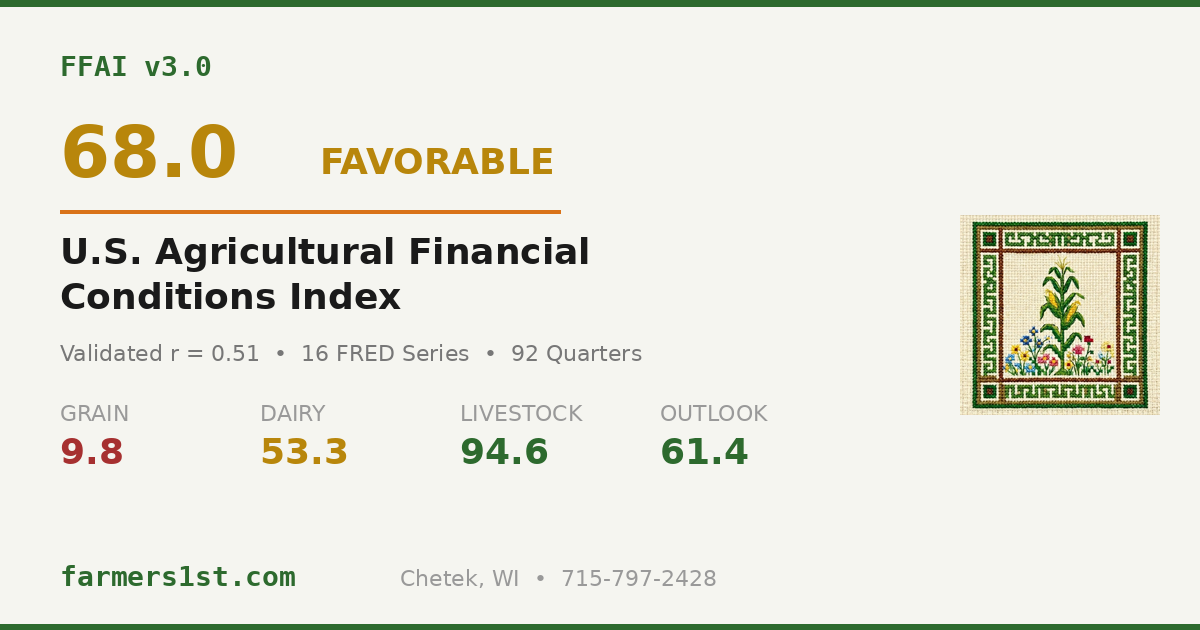
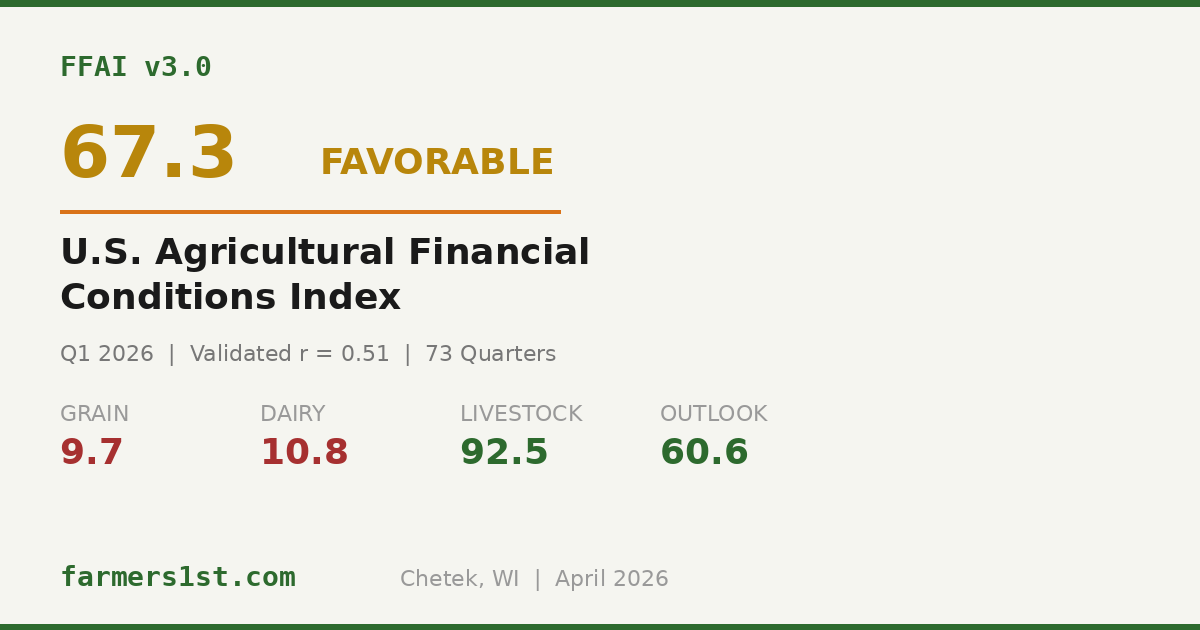
Add files via upload

diff --git a/ffai-data.js b/ffai-data.js
@@ -19,34 +19,34 @@
 var FFAI = {
 
   // -- Current Quarter (paste from engine output) ---------------
-  quarter:  "Q4'25",
-  date:     "Q4 2025",
-  updated:  "February 23, 2026",
-  nextUpdate: "APR '26",
+  quarter:  "Q1'26",
+  date:     "Q1 2026",
+  updated:  "April 24, 2026",
+  nextUpdate: "JUL '26",
 
-  composite:  68.0,
-  prevComp:   69.3,
+  composite:  67.3,
+  prevComp:   67.9,
   regime:     "FAVORABLE",
 
-  grain:       9.8,
-  dairy:      53.3,
-  livestock:  94.6,
-  outlook:    61.4,
+  grain:       9.7,
+  dairy:      10.8,
+  livestock:  92.5,
+  outlook:    60.6,
 
-  prevGrain:      2.2,
-  prevDairy:     72.5,
-  prevLivestock: 100.0,
-  prevOutlook:   64.0,
+  prevGrain:      9.8,
+  prevDairy:     51.1,
+  prevLivestock: 94.6,
+  prevOutlook:   61.4,
 
   // -- Quarterly History (from ffai_v3_engine.py CSV) -----------
   // Format: [label, composite, grain, dairy, livestock]
   history: [
-    ["Q1'08",55.2,100.0,4.8,4.8],
+    ["Q1'08",55.1,100.0,4.8,4.8],
     ["Q2'08",49.5,95.5,4.5,9.1],
     ["Q3'08",54.0,91.3,13.0,100.0],
     ["Q4'08",19.1,87.5,100.0,12.5],
     ["Q1'09",21.8,96.0,12.0,12.0],
-    ["Q2'09",31.2,96.2,3.8,15.4],
+    ["Q2'09",31.1,96.2,3.8,15.4],
     ["Q3'09",24.8,85.2,18.5,11.1],
     ["Q4'09",18.3,82.1,25.0,10.7],
     ["Q1'10",9.9,75.9,27.6,100.0],
@@ -66,7 +66,7 @@ var FFAI = {
     ["Q3'13",25.4,55.8,88.4,93.0],
     ["Q4'13",22.4,52.3,100.0,97.7],
     ["Q1'14",27.5,53.3,100.0,100.0],
-    ["Q2'14",37.3,56.5,97.8,100.0],
+    ["Q2'14",37.2,56.5,97.8,100.0],
     ["Q3'14",18.7,2.1,100.0,100.0],
     ["Q4'14",12.3,4.2,97.9,97.9],
     ["Q1'15",14.8,53.1,87.8,91.8],
@@ -76,33 +76,33 @@ var FFAI = {
     ["Q1'16",24.1,52.8,84.9,69.8],
     ["Q2'16",33.4,61.1,70.4,63.0],
     ["Q3'16",32.9,43.6,89.1,61.8],
-    ["Q4'16",33.7,5.4,89.3,51.8],
+    ["Q4'16",33.6,5.4,89.3,51.8],
     ["Q1'17",37.6,43.9,89.5,59.6],
     ["Q2'17",37.3,3.4,82.8,65.5],
     ["Q3'17",40.6,3.4,89.8,62.7],
     ["Q4'17",41.6,1.7,85.0,53.3],
     ["Q1'18",45.4,3.3,62.3,55.7],
-    ["Q2'18",47.9,3.2,64.5,48.4],
-    ["Q3'18",44.0,1.6,66.7,47.6],
+    ["Q2'18",47.8,3.2,64.5,48.4],
+    ["Q3'18",43.9,1.6,66.7,47.6],
     ["Q4'18",48.0,3.1,70.3,45.3],
     ["Q1'19",50.7,4.6,67.7,52.3],
     ["Q2'19",48.8,4.5,77.3,57.6],
-    ["Q3'19",46.6,7.5,88.1,47.8],
-    ["Q4'19",42.3,11.8,94.1,47.1],
-    ["Q1'20",37.1,20.3,85.5,55.1],
+    ["Q3'19",46.5,7.5,88.1,47.8],
+    ["Q4'19",42.2,11.8,94.1,47.1],
+    ["Q1'20",37.0,20.3,85.5,55.1],
     ["Q2'20",23.0,70.0,67.1,58.6],
     ["Q3'20",26.1,64.8,93.0,46.5],
     ["Q4'20",34.2,81.9,84.7,52.8],
-    ["Q1'21",44.8,89.0,12.3,11.0],
+    ["Q1'21",44.7,89.0,12.3,11.0],
     ["Q2'21",49.0,91.9,12.2,58.1],
     ["Q3'21",43.4,76.0,16.0,64.0],
     ["Q4'21",39.4,63.2,65.8,52.6],
-    ["Q1'22",53.6,75.3,85.7,11.7],
-    ["Q2'22",67.1,71.8,84.6,11.5],
-    ["Q3'22",76.2,46.8,75.9,64.6],
-    ["Q4'22",87.9,16.2,73.8,11.2],
-    ["Q1'23",99.9,19.8,19.8,13.6],
-    ["Q2'23",99.8,14.6,11.0,69.5],
+    ["Q1'22",53.5,75.3,85.7,11.7],
+    ["Q2'22",67.0,71.8,84.6,11.5],
+    ["Q3'22",76.1,46.8,75.9,64.6],
+    ["Q4'22",87.8,16.2,73.8,11.2],
+    ["Q1'23",99.8,19.8,19.8,13.6],
+    ["Q2'23",99.9,14.6,11.0,69.5],
     ["Q3'23",100.0,1.2,19.3,85.5],
     ["Q4'23",95.4,1.2,59.5,65.5],
     ["Q1'24",89.6,1.2,57.6,72.9],
@@ -112,27 +112,28 @@ var FFAI = {
     ["Q1'25",70.3,6.7,83.1,94.4],
     ["Q2'25",70.9,7.8,70.0,97.8],
     ["Q3'25",69.3,2.2,72.5,100.0],
-    ["Q4'25",68.0,9.8,53.3,94.6]
+    ["Q4'25",67.9,9.8,51.1,94.6],
+    ["Q1'26",67.3,9.7,10.8,92.5]
   ],
 
   // -- USDA Outlook Flash Bar -----------------------------------
   // COMPLIANCE: Keep current. Remove dated FBA/deadline references each update cycle.
-  outlookFlash: 'SCOTUS TARIFF RULING FEB 20 \u2014 IEEPA TARIFFS STRUCK DOWN \u00B7 China soybean commitments uncertain \u00B7 10% Section 122 tariff in effect \u00B7 USDA AOF: Corn 94M ac / $4.20 \u00B7 Beans 85M ac / $10.30 \u00B7 Cattle $240+ \u00B7 Milk recovery H2 expected \u00B7 Next major deadline: July 15 acreage reporting',
+  outlookFlash: 'Q1\u002726 UPDATE \u2014 DAIRY COLLAPSES TO 10.8 STRESSED \u00B7 Composite 67.3 FAVORABLE \u00B7 Grain 9.7 flat \u00B7 Livestock 92.5 STRONG \u00B7 Fed Funds 3.64% \u00B7 Crude $91/bbl \u00B7 Raw milk PPI crashed to 127 \u00B7 July 15 acreage reporting next',
 
   // -- Editorial: Report ----------------------------------------
-  headline: "SCOTUS Changed the Game. The Farm Economy Didn\u2019t Blink.",
+  headline: "Dairy Hit the Wall. Everything Else Held.",
   intro: [
-    "FFAI composite at <strong>68.0 FAVORABLE</strong> \u2014 national ag conditions decent but slipping from the 2023 peak. The Supreme Court struck down IEEPA tariffs Feb 20. China\u2019s 25M-ton soybean pledge is now leverage without a lever. Markets shrugged. The real story is still sector divergence.",
-    "<strong>Grain at 9.8 STRESSED.</strong> Cost of production $917/ac. Most WI/MN corn at or below breakeven. <strong>Dairy in recession</strong> \u2014 Jan Class III actual $14.59, well below USDA\u2019s $16.65 forecast. <strong>Livestock at 94.6 STRONG</strong> \u2014 COF placements -5%, herd lowest since 1951, cash cattle $242-245."
+    "FFAI composite at <strong>67.3 FAVORABLE</strong> \u2014 down 0.6 from Q4. National ag conditions still decent but the dairy sub-index just collapsed. <strong>10.8 STRESSED</strong> \u2014 down 40 points in one quarter. The Jan Class III $14.59 we flagged in February is now fully visible in the data.",
+    "<strong>Grain at 9.7 STRESSED</strong> \u2014 flat, still stuck at breakeven. Soybeans jumped to $427/mt on the quarter but crude oil surged to $91/bbl, pushing diesel PPI to 439. Input costs ate the revenue gain. <strong>Livestock at 92.5 STRONG</strong> \u2014 cattle PPI at 370.7, near all-time highs. <strong>Outlook at 60.6 FAVORABLE</strong> \u2014 Fed holding at 3.64%, easing from 2023 peak."
   ],
 
   signals: [
-    ["SCOTUS / Trade Policy",     "BEARISH BEANS",  "a", "IEEPA tariffs struck down Feb 20. China\u2019s 25M-ton purchase pledge loses enforcement. 10% Section 122 replacement. If China walks back 8M-ton additional buy (~294M bu), ending stocks exceed 400M bu. Biofuel policy (45Z, E15, RFS) now primary upside driver, not China."],
-    ["Dollar / Export Demand",    "BULLISH CORN",   "g", "DXY down 13% to 98.7. Corn exports raised to record 3.3B bu. India-US deal opens new demand. Dollar weakness historically precedes 15-20% grain price improvement."],
-    ["Dairy Recession",           "BEARISH",        "a", "Jan Class III actual $14.59/cwt. All-milk $18.95 vs COP $19.14. Most WI herds need $18-19 to break even. Culling up 3.2% YoY. Herd 9.540M. Recovery path H2 via supply correction."],
-    ["Cattle Supply Crunch",      "BULLISH",        "g", "COF report 2/21: on-feed 11.5M (-2% YoY), placements -5% below trade estimates. Cash $242-245. Feeders $377. Herd 86.2M, lowest since 1951. MX border closed (screwworm). Demand strongest since 1983."],
-    ["WASDE / Drought",           "TURNING",        "a", "Feb WASDE cut corn stocks 100M bu. 62% Midwest drought expanding. SWE lowest since 1986. If persists into planting, supply picture changes fast."],
-    ["Equipment / Profitability", "BOTTOMING",      "g", "Deere ATH $593, called 2026 cycle bottom. Titan Machinery $14.30 still distressed. When TITN turns, sector confirmed."]
+    ["Dairy Collapse",              "BEARISH",        "a", "Sub-index crashed from 51.1 to 10.8 in one quarter \u2014 largest single-quarter drop in FFAI history. Raw milk PPI fell to 127 (was 150). Cheese PPI down to 205. Dairy margin went negative (-0.46 z-scores). Recovery depends on herd contraction accelerating."],
+    ["Crude Oil Spike",             "BEARISH GRAIN",  "a", "WTI crude surged to $91/bbl in Q1 (was $60 in Q4). Diesel PPI jumped to 439. This crushes grain margins through energy and transportation costs. If crude sustains above $80, grain sub-index stays pinned."],
+    ["Soybean Strength",            "BULLISH",        "g", "Soybeans at $427/mt ($11.60/bu equiv) \u2014 up from $380 range. Biofuel demand (45Z, RFS) driving crush. But SCOTUS tariff ruling clouds China trade. Domestic crush is the real story now."],
+    ["Cattle Supply Crunch",        "BULLISH",        "g", "Cattle PPI at 370.7, near all-time highs. Herd 86.2M, lowest since 1951. COF placements -5%. Livestock margin at 1.86 z-scores above mean. Watch consumer pushback above $9.50/lb retail."],
+    ["Rate Trajectory",             "FAVORABLE",      "g", "Fed Funds at 3.64%, down from 5.33 peak. 10Y Treasury at 4.25%. Each quarter of cuts helps farmer debt service 4-5 quarters out. Outlook sub-index at 60.6 reflects continued easing."],
+    ["Drought Watch",               "WATCH",          "a", "62% Midwest drought entering planting. SWE lowest since 1986. If persists into pollination, grain sub-index could move sharply higher on supply shock."]
   ],
 
   // COMPLIANCE NOTE on actions:
@@ -141,28 +142,28 @@ var FFAI = {
   // - Subsidy changes: cite RMA bulletin numbers, not bill names, unless bill is fully enacted and verifiable
   // - General market info is not advice specific to any producer's situation
   actions: [
+    ["Dairy DRP: highest priority right now",
+     "Sub-index at 10.8 \u2014 margins negative. 85-90% coverage on 60-70% of quarterly milk production. Match Class III/IV. Call us to evaluate your specific DRP structure for Q2-Q3. This is the most important insurance decision for dairy operations right now."],
+
     ["Protect grain downside",
-     "RP at higher coverage levels. 2026 RMA subsidy schedule increased ECO/SCO subsidies \u2014 call us for current rates on your operation. COP $917/ac corn. Most WI/MN at or below breakeven. Contact us to run your numbers."],
+     "Grain at 9.7 STRESSED. Crude oil at $91 is compressing margins further. RP at higher coverage levels. 2026 RMA subsidy schedule increased ECO/SCO subsidies \u2014 call us for current rates. COP $917/ac corn."],
 
-    ["Beans: upside now = biofuel, not China",
-     "SCOTUS clouds trade leverage. 45Z, E15, RFS are the catalysts. Don\u2019t cap upside, but expect headline volatility."],
+    ["Don\u2019t cap bean upside",
+     "Soybeans strengthening on biofuel demand despite SCOTUS uncertainty. 45Z, E15, RFS are the catalysts. Domestic crush at record. Expect headline volatility but trend is up."],
 
-    ["Dairy DRP: strongly recommended",
-     "85-90% coverage on 60-70% of quarterly milk production. Match Class III/IV. Jan III actual was $14.59 \u2014 well below forecast. Call us to evaluate your specific DRP structure for Q2-Q3."],
+    ["Cattle: lock some revenue on strength",
+     "Livestock at 92.5 but crude oil spike adds input cost pressure. LRP sets floor, keeps upside. COF confirms tight supply. Consider locking Q3-Q4 revenue."],
 
-    ["Cattle: manage the volatility",
-     "LRP sets floor, keeps upside. COF confirms tight supply. Lock some Q3-Q4 revenue on strength. Watch consumer pushback above $9.50/lb retail."],
+    ["Watch crude oil trajectory",
+     "WTI at $91 changes the math on everything \u2014 diesel, fertilizer, transportation. If sustains above $80, grain margins compress further. Factor energy costs into forward contracting decisions."],
 
     ["July 15: acreage reporting deadline",
      "Report all planted acres by July 15 to maintain crop insurance coverage. Late or inaccurate reporting can void your policy. Call us if you have questions about reporting requirements."],
 
-    ["Gov\u2019t programs: factor into cash flow",
-     "Higher reference prices + ARC + ECO/SCO subsidies. Government support represents a significant share of net income for many operations. Ask us about your eligibility."],
-
-    ["Dec 1: PRF pasture signup",
-     "Planning ahead? PRF December 1 deadline is the next major crop insurance signup. Call to discuss grid selection, coverage periods, and whether PRF fits your hay and grazing operation."]
+    ["Next FFAI update: July 2026",
+     "Q2\u201926 data. Will show whether dairy bottoms or deepens, and whether crude oil spike persists. Run ffai_data_check.py after July 20."]
   ],
 
-  closingLine: "SCOTUS changed the game. The farm economy didn\u2019t blink.",
-  closingSub: "Protect downside. Price into rallies. Don\u2019t bet the farm on the timing. Market information above is general in nature \u2014 contact us for guidance specific to your operation."
+  closingLine: "Dairy hit the wall. Everything else held.",
+  closingSub: "Protect the downside. The data is clear. Market information above is general in nature \u2014 contact us for guidance specific to your operation."
 };
